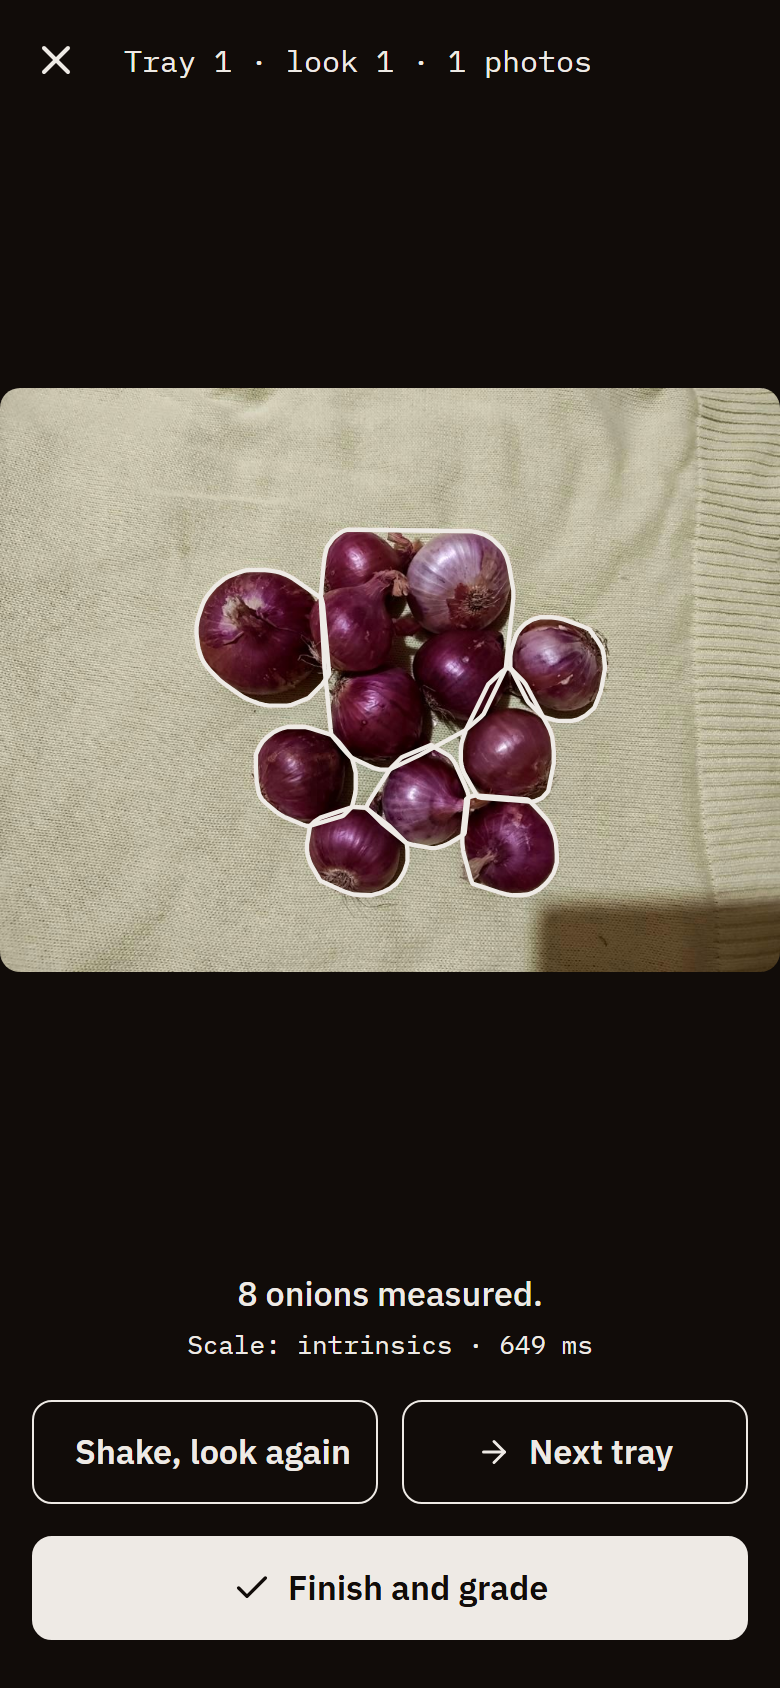
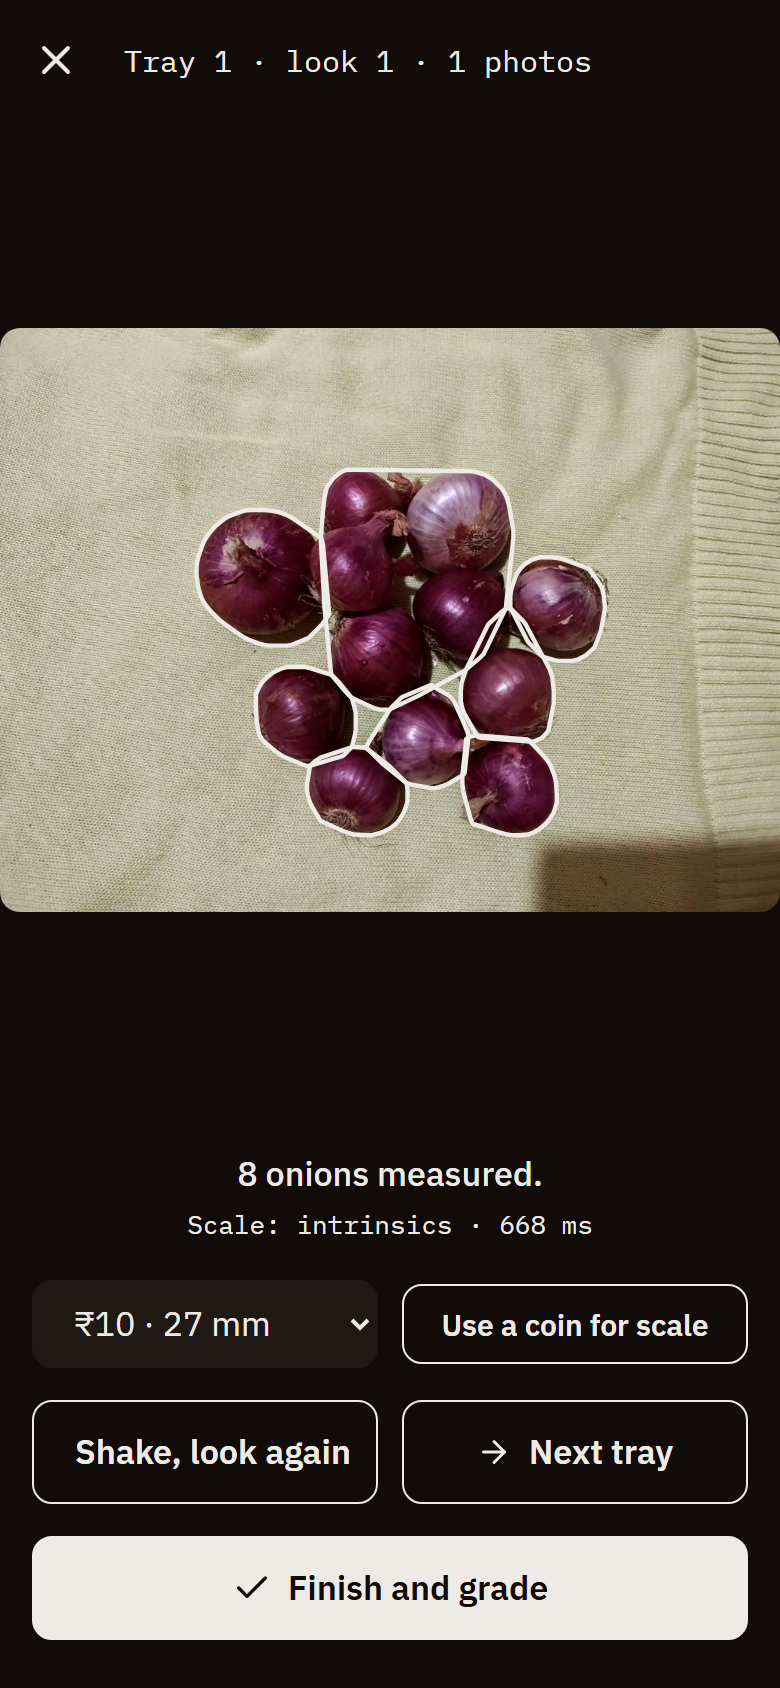
Coin calibration tier in the capture review (tap the coin), disc validation + unit test; PS ID source
Claude-Session: https://claude.ai/code/session_01MsQLE5SeqgMZZ4k9Tgs6Uc

Changed region(s): [[0.0, 0.1848, 1.0, 0.5853], [0.2154, 0.6777, 0.9231, 0.8009], [0.0923, 0.7701, 0.1846, 0.8009]]

diff --git a/apps/web/src/screens/Capture.tsx b/apps/web/src/screens/Capture.tsx
@@ -35,7 +35,9 @@ export function Capture({ lotId, replay }: { lotId: string; replay: boolean }) {
   const [hold, setHold] = useState(0);            // consecutive all-pass scans
   const [refusal, setRefusal] = useState('');
   const [noSheet, setNoSheet] = useState(replay);
-  const [last, setLast] = useState<{ a: Analysis; url: string } | null>(null);
+  const [last, setLast] = useState<{ a: Analysis; url: string; id: string; blob: Blob } | null>(null);
+  const [coinMode, setCoinMode] = useState(false);
+  const [coinMm, setCoinMm] = useState(27);
   const [count, setCount] = useState(0);
   const [err, setErr] = useState('');
   const [sampleIdx, setSampleIdx] = useState(0);
@@ -133,13 +135,28 @@ export function Capture({ lotId, replay }: { lotId: string; replay: boolean }) {
       guard.current = { scans: 0, failed: 0, refused: 0, byGate: {} };
       await db.captures.put(row);
       if (last) URL.revokeObjectURL(last.url);
-      setLast({ a, url: URL.createObjectURL(ev.blob) });
+      setLast({ a, url: URL.createObjectURL(ev.blob), id: row.id, blob: ev.blob });
       setCount((c) => c + 1);
       setPhase('review');
       if (navigator.vibrate) navigator.vibrate(30);
     } catch (e) {
       setErr(String(e)); setPhase('error');
     } finally { busy.current = false; setHold(0); }
+  }
+
+  /** Coin tier: re-measure the stored photo using a tapped coin of known diameter as the scale. */
+  async function useCoin(x: number, y: number) {
+    if (!last) return;
+    setCoinMode(false);
+    setPhase('busy');
+    try {
+      const a = await analyzeBitmap(await createImageBitmap(last.blob), { coin: { x, y, mm: coinMm } });
+      if (a.calib.tier !== 'coin') { setRefusal(t('cap.coin.fail', 'Could not find a coin there. Tap the middle of the coin.')); setPhase('review'); return; }
+      await db.captures.update(last.id, { bulbs: a.bulbs, calib: { tier: a.calib.tier, mmPerPx: a.calib.mmPerPx, camHmm: a.calib.camHmm, scaleSd: a.calib.scaleSd, note: a.calib.note }, timings: a.timings });
+      setLast({ ...last, a });
+      setRefusal('');
+      setPhase('review');
+    } catch (e) { setErr(String(e)); setPhase('error'); }
   }
 
   const nextLook = () => { setLook(look + 1); setPhase('aim'); if (replay) setSampleIdx((i) => i + 1); };
@@ -163,7 +180,7 @@ export function Capture({ lotId, replay }: { lotId: string; replay: boolean }) {
         {phase === 'busy' && <div class="busy"><div><div>{t('cap.measuring', 'Measuring…')}</div><div class="bar"><i /></div></div></div>}
         {phase === 'review' && last && (
           <div style={{ position: 'absolute', inset: 0, display: 'grid', placeItems: 'center', background: 'var(--color-cam)' }}>
-            <Overlay url={last.url} w={last.a.width} h={last.a.height} bulbs={last.a.bulbs} />
+            <Overlay url={last.url} w={last.a.width} h={last.a.height} bulbs={last.a.bulbs} onImageTap={coinMode ? useCoin : undefined} />
           </div>
         )}
       </div>
@@ -195,7 +212,17 @@ export function Capture({ lotId, replay }: { lotId: string; replay: boolean }) {
             <p class="cam-msg">
               {t('cap.measured', '{n} onions measured.', { n: used })}{setAside > 0 ? ' ' + t('cap.aside', '{n} set aside (cut off by the frame edge or not onion-shaped).', { n: setAside }) : ''}
               <br /><span class="mono xs">{t('cap.calib', 'Scale')}: {last.a.calib.tier} · {Math.round(last.a.timings.total ?? 0)} ms</span>
+              {refusal && <><br />{refusal}</>}
             </p>
+            {last.a.calib.tier === 'intrinsics' && !coinMode && !replay && (
+              <div class="row">
+                <select class="select" style={{ flex: 1, minHeight: 44, background: 'var(--color-cam-2)', color: 'var(--color-cam-ink)', borderColor: 'var(--color-cam-2)' }} value={coinMm} onChange={(e) => setCoinMm(parseFloat((e.target as HTMLSelectElement).value))} aria-label={t('cap.coin.which', 'Which coin')}>
+                  {[[27, '₹10 · 27 mm'], [25, '₹5 · 25 mm'], [23, '₹2 · 23 mm'], [20, '₹1 · 20 mm']].map(([mm, l]) => <option key={mm} value={mm}>{l}</option>)}
+                </select>
+                <button class="btn small" onClick={() => setCoinMode(true)}>{t('cap.coin', 'Use a coin for scale')}</button>
+              </div>
+            )}
+            {coinMode && <p class="cam-msg">{t('cap.coin.tap', 'Tap the coin in the photo.')}</p>}
             <div class={replay ? '' : 'grid2'}>
               {!replay && <button class="btn" onClick={nextLook}><RefreshCw size={18} aria-hidden="true" />{t('cap.shake', 'Shake, look again')}</button>}
               <button class="btn" style={{ width: '100%' }} onClick={nextTray}><ArrowRight size={18} aria-hidden="true" />{replay ? t('cap.nextphoto', 'Next stored photo (new tray)') : t('cap.nexttray', 'Next tray')}</button>

diff --git a/packages/vision/test/vision.test.ts b/packages/vision/test/vision.test.ts
@@ -2,7 +2,7 @@ import { describe, expect, it } from 'vitest';
 import fs from 'node:fs';
 import { PNG } from 'pngjs';
 import { heightCorrect } from '@parakh/core';
-import { applyH, calibFromMarkers, components, convexHull, detectAruco, distanceTransform, feret, mask, watershedSplit } from '../src';
+import { applyH, calibFromCoin, calibFromMarkers, toLab, components, convexHull, detectAruco, distanceTransform, feret, mask, watershedSplit } from '../src';
 
 describe('calibration', () => {
   it('finds all 8 markers of the legacy printed mat and recovers its scale (11.81 px/mm at 300 dpi)', () => {
@@ -15,6 +15,22 @@ describe('calibration', () => {
     const p = applyH(cal.H!, m.find((x) => x.id === 0)!.corners[0]);
     expect(p.x).toBeCloseTo(12, 0);
     expect(p.y).toBeCloseTo(12, 0);
+  });
+});
+
+describe('coin tier', () => {
+  it('a tapped 27 mm disc of 90 px gives 0.3 mm/px; tapping a non-disc is refused', () => {
+    const w = 800, h = 600, d = new Uint8ClampedArray(w * h * 4);
+    for (let y = 0; y < h; y++) for (let x = 0; x < w; x++) {
+      const i = (y * w + x) * 4, inDisc = Math.hypot(x - 200, y - 150) < 45, inBar = x > 20 && x < 120 && y > 20 && y < 40;
+      const v = inDisc ? [190, 170, 90] : inBar ? [40, 120, 40] : [235, 235, 230];
+      d[i] = v[0]; d[i + 1] = v[1]; d[i + 2] = v[2]; d[i + 3] = 255;
+    }
+    const lab = toLab({ width: w, height: h, data: d });
+    const cal = calibFromCoin(lab, { x: 200, y: 150 }, 27)!;
+    expect(cal.tier).toBe('coin');
+    expect(cal.mmPerPx).toBeCloseTo(27 / 90, 2);
+    expect(calibFromCoin(lab, { x: 70, y: 30 }, 27)).toBeNull();
   });
 });
 

diff --git a/packages/vision/src/calib.ts b/packages/vision/src/calib.ts
@@ -1,7 +1,7 @@
 import { AR } from '../vendor/aruco/index.js';
 import { TIER_SCALE_SD, type CalibrationTier } from '@parakh/core';
 import { TIER0 } from './config';
-import { applyH, convexHull, homography, localScale, polygonArea, type H3, type Pt } from './geom';
+import { applyH, convexHull, feret, homography, localScale, polygonArea, type H3, type Pt } from './geom';
 import { components } from './morph';
 import { mask, type Lab, type RGBA } from './img';
 
@@ -116,10 +116,14 @@ export function calibFromCoin(lab: Lab, tap: Pt, coinMm: number): Calibration | 
       if (dE < 16) { seen[j] = 1; stack.push(j); }
     }
   }
-  if (area < 50) return null;
-  const hullA = polygonArea(convexHull(pts));
+  if (area < 50 || area > 0.03 * w * h) return null;
+  const hull = convexHull(pts);
+  const hullA = polygonArea(hull);
+  const f = feret(hull);
+  // A coin seen from above is a near-perfect disc: reject blobs that are not.
+  if (f.max <= 0 || f.min / f.max < 0.85 || (4 * hullA) / (Math.PI * f.max * f.max) < 0.8) return null;
   const dPx = 2 * Math.sqrt(hullA / Math.PI);
-  const cal = finish('coin', null, coinMm / dPx, w, h, { exclude: [convexHull(pts)], note: `coin ${coinMm} mm = ${dPx.toFixed(1)} px` });
+  const cal = finish('coin', null, coinMm / dPx, w, h, { exclude: [hull], note: `coin ${coinMm} mm = ${dPx.toFixed(1)} px` });
   return cal;
 }
 

diff --git a/apps/web/src/components/Overlay.tsx b/apps/web/src/components/Overlay.tsx
@@ -8,9 +8,11 @@ const STROKE: Record<Bucket | 'none', string> = {
 };
 
 /** Photo with each bulb's outline, coloured by its verdict, tappable. */
-export function Overlay({ url, w, h, bulbs, verdict, onTap, selected, caption }: {
+export function Overlay({ url, w, h, bulbs, verdict, onTap, selected, caption, onImageTap }: {
   url: string; w: number; h: number; bulbs: BulbResult[];
   verdict?: (idx: number) => Bucket | undefined; onTap?: (idx: number) => void; selected?: number; caption?: string;
+  /** When set, a tap anywhere reports image coordinates (used to mark the reference coin). */
+  onImageTap?: (x: number, y: number) => void;
 }) {
   const k = Math.max(18, Math.round(Math.max(w, h) / 34)); // badge size in image px, readable on a phone
   return (
@@ -37,6 +39,10 @@ export function Overlay({ url, w, h, bulbs, verdict, onTap, selected, caption }:
             </g>
           );
         })}
+        {onImageTap && (
+          <rect x={0} y={0} width={w} height={h} fill="transparent" style={{ cursor: 'crosshair' }}
+            onClick={(e) => { const r = (e.currentTarget as SVGRectElement).ownerSVGElement!.getBoundingClientRect(); onImageTap(((e.clientX - r.left) / r.width) * w, ((e.clientY - r.top) / r.height) * h); }} />
+        )}
       </svg>
       {caption && <figcaption>{caption}</figcaption>}
     </figure>

diff --git a/docs/SOURCES.md b/docs/SOURCES.md
@@ -34,6 +34,12 @@ The default is the 30 Jul pack because S4 is the latest report and says it is th
 | R2 | USDA AMS onion grade standards. https://www.ams.usda.gov/grades-standards | Grades settle on sample percentages by weight | assumed (page not read in full) |
 | R3 | Agmark Fruits and Vegetables Grading and Marking Rules, 2004, which lists onion among graded commodities. https://agritech.tnau.ac.in/amis/pdf/F_V_G_M_under_Agmark.pdf | Onion has an Agmark schedule; we did not obtain its grade table | verified that it exists; content not read |
 
+## Problem statement
+
+| ID | Source | What it says | Status |
+|---|---|---|---|
+| P1 | Community mirrors of the SIH 2026 list: https://github.com/NoBugNinja/Smart-India-Hackathon-SIH-2026-Problem-Statements and https://zaidsayyed.in/tools/sih-problem-statements/theme/smart-automation | Onion grading problem is SIH26031, Software, Ministry of Consumer Affairs, Food & Public Distribution | press-report (not the official portal) |
+
 ## Datasets
 
 | ID | Source | Licence | Used for |
@@ -73,6 +79,7 @@ Development only: vite, vitest, fast-check, typescript, playwright, tsx, pngjs, 
 | A-WEIGHT-1 | Weight = sphere of density 0.95 g/cm3 on mean Feret diameter, 18% residual | core/sizing.ts | Kitchen-scale fit (HUMAN_TASKS T4) |
 | A-FOV-1 | Camera horizontal field of view 66 degrees; camera-only tier uses 380 mm height with 25% uncertainty | vision/config.ts | Read from the phone, or measure once per phone |
 | A-REPLAY-1 | Stored demo photos analysed as if taken from 260 mm | web/lib/demo.ts | Replace the demo photos with the team's own photos on the mat |
+| A-COIN-1 | Coin diameters Rs 10: 27 mm, Rs 5: 25 mm, Rs 2: 23 mm, Rs 1: 20 mm (current series, from memory, not checked against RBI) | web capture screen | Caliper the coin once (HUMAN_TASKS T1) |
 | A-SAMPLE-1 | Draw ceil(sqrt(sacks)) sacks, at least 3 | core/sampling.ts | Official sampling plan unknown (OQ7) |
 | A-RATE-1 | Indicative rate Rs 2,125/quintal (S5; S4 says Rs 2,335 from 30 Jul) | web settings | User types the day's rate |
 | A-T0-* | Every Tier-0 colour threshold in packages/vision/src/config.ts | vision | Fit on field photos (scripts to come with field data) |

diff --git a/docs/OPEN_QUESTIONS.md b/docs/OPEN_QUESTIONS.md
@@ -10,6 +10,6 @@ Each one blocks a number from becoming `verified`. The software treats every ans
 6. **What is the lot acceptance rule?** For example: a lot is Grade A if at most X% by weight fails. The SPRT thresholds (A-LOT-1) are placeholders.
 7. **What sampling plan do centres use?** How many sacks, which layer, how many bulbs per tray. The random draw (A-SAMPLE-1) follows a square-root rule until we know.
 8. **Is the "size" in the norm the minimum or maximum diameter?** UNECE FFV-25 uses the maximum diameter of the equatorial section (R1). A ring gauge passes a bulb in its smallest orientation. Packs use min Feret for now; the E1 ring-and-caliper study decides.
-9. **Is the problem statement ID 26031 or 26046?** The old README said 26046; the team was given 26031. Check the SIH portal.
+9. **Is the problem statement ID 26031 or 26046?** Community mirrors of the SIH 2026 list (github.com/NoBugNinja/Smart-India-Hackathon-SIH-2026-Problem-Statements, zaidsayyed.in) give SIH26031 under the Ministry of Consumer Affairs, Food & Public Distribution. The old README's 26046 looks wrong. Confirm once on sih.gov.in.
 10. **Can a receipt carry a farmer's name?** Under the DPDP Act 2023 the farmer reference is personal data. The app stores it only on the phone and prints it on the receipt. A reference number may be safer; ask the department.
 11. **Hindi, Marathi, Tamil, Telugu, Kannada, Gujarati, Bengali and Punjabi strings are machine drafts.** A native speaker must proofread each file in apps/web/src/locales before any demo in that language.

diff --git a/docs/EVALUATION.md b/docs/EVALUATION.md
@@ -42,17 +42,17 @@ Caveats:
 | Check | Result | Detail |
 |---|---|---|
 | home renders | pass |  |
-| demo lot graded | pass | 4450 ms for 4 photos incl. decode |
-| Tier-1 model ran in the browser (ONNX Runtime Web) | pass | {"n":56,"withP":56,"disagree":2,"ms":[111,38,106,93]} |
+| demo lot graded | pass | 3943 ms for 4 photos incl. decode |
+| Tier-1 model ran in the browser (ONNX Runtime Web) | pass | {"n":56,"withP":56,"disagree":2,"ms":[113,38,73,65]} |
 | bulb sheet shows reasons | pass | 2 reason lines |
 | override + contest recorded | pass |  |
 | receipt has QR | pass |  |
-| QR payload size | pass | 3015 base45 chars |
+| QR payload size | pass | 3013 base45 chars |
 | second phone verifies offline | pass | Receipt checks out |
 | tampered code rejected | pass | This code is damaged, altered, or not a Parakh receipt. Nothing could be verifie |
 | time travel: packs give different procured shares | pass | 0.0 / 0.0 / 11.2 / 11.2 / 0.0 |
 | capture guard explains refusal in one sentence | pass | Keep the calibration sheet fully in view. |
-| auto-shutter fired and measured | pass | 8 onions measured. Scale: intrinsics · 649 ms |
+| auto-shutter fired and measured | pass | 8 onions measured. Scale: intrinsics · 668 ms |
 | app loads offline (service worker) | pass |  |
 | UI switches to Hindi | pass | लॉट मापें। ऐसी रसीद दें जिसे कोई भी जाँच सके। |
 | no page errors | pass |  |
